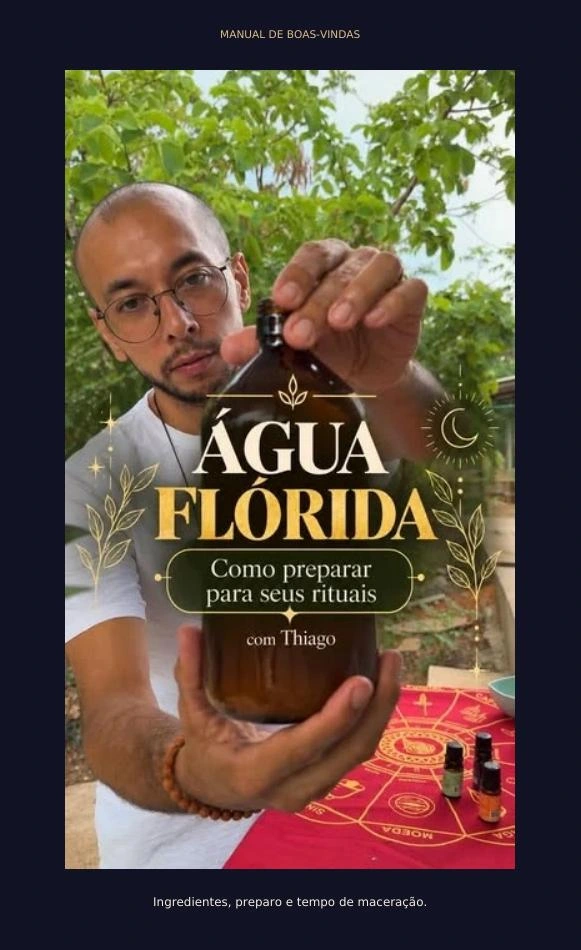
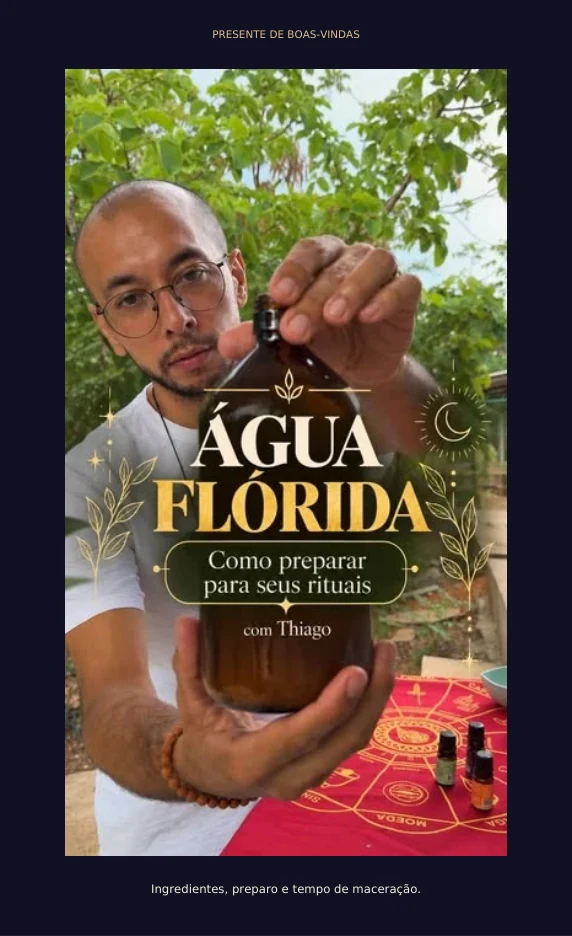
Revisa presente de boas-vindas, cuidados e crédito autoral

diff --git a/links/index.html b/links/index.html
@@ -1,1 +1,1 @@
-<!doctype html><html lang="pt-BR"><head><meta charset="utf-8"><meta name="viewport" content="width=device-width, initial-scale=1"><title>Links e boas-vindas | Thiago Sousa</title><meta name="description" content="Atendimentos, WhatsApp, Instagram, YouTube e um e-book gratuito de boas-vindas sobre Água Flórida."><meta name="theme-color" content="#121225"><link rel="canonical" href="https://thiagoterapiaseoraculos.github.io/meus-servicos/links/"><meta property="og:title" content="Thiago Sousa · Terapias & Oráculos"><meta property="og:description" content="Conheça meus atendimentos e receba um presente de boas-vindas."><meta property="og:image" content="https://thiagoterapiaseoraculos.github.io/meus-servicos/assets/images/perfil/thiago-site-compartilhamento.jpg"><meta property="og:url" content="https://thiagoterapiaseoraculos.github.io/meus-servicos/links/"><meta property="og:type" content="website"><link rel="icon" href="../assets/images/marca/estrela.svg"><link rel="stylesheet" href="links.css?v=20261026-fusao-thumb"></head><body><main class="page"><header class="hero"><img class="hero-photo" src="../assets/images/perfil/thiago-retrato-links.webp" alt="Retrato de Thiago Sousa, com camisa clara, em um ambiente com plantas e livros" width="640" height="641" fetchpriority="high"><div class="brand-art" aria-hidden="true"><img src="../assets/images/marca/thiago-terapias-topo.webp" alt="" width="1000" height="335"></div><div class="hero-tools"><a class="site-shortcut" href="../" aria-label="Acessar o site completo"><svg class="" viewBox="0 0 24 24" aria-hidden="true"><path d="M19 12H5m6-6-6 6 6 6"/></svg><span>Site</span></a><div class="theme-switch" role="radiogroup" aria-label="Aparência da página"><button type="button" role="radio" aria-checked="true" aria-label="Tema escuro" data-theme-choice="escuro"><svg class="" viewBox="0 0 24 24" aria-hidden="true"><path d="M20.5 13.5A8.5 8.5 0 0 1 10.5 3a8.5 8.5 0 1 0 10 10.5Z"/></svg></button><button type="button" role="radio" aria-checked="false" aria-label="Tema claro" data-theme-choice="claro" tabindex="-1"><svg class="" viewBox="0 0 24 24" aria-hidden="true"><circle cx="12" cy="12" r="4"/><path d="M12 2v2m0 16v2M2 12h2m16 0h2M5 5l1.4 1.4m11.2 11.2L19 19M5 19l1.4-1.4M17.6 6.4 19 5"/></svg></button></div></div><div class="hero-title"><p class="hello">Prazer, eu sou</p><h1>Thiago Sousa</h1><p class="profession">TERAPIAS & ORÁCULOS</p></div></header><div class="page-content"><p class="intro">Oráculos, orientação espiritual e práticas de autoconhecimento.<br>Um encontro com a sua própria essência.</p><a class="featured" href="../assets/downloads/agua-florida-boas-vindas.pdf?v=20261026-thumb3" download aria-label="Baixar meu presente: manual gratuito de Água Flórida"><div class="featured-copy"><p class="eyebrow">UM PRESENTE PARA VOCÊ</p><h2>Água Flórida</h2><p>Meu preparo, passo a passo. Ingredientes e medidas para acompanhar comigo.</p><span class="featured-action">Baixar meu presente <svg class="" viewBox="0 0 24 24" aria-hidden="true"><path d="M12 3v12m-5-5 5 5 5-5M4 17v4h16v-4"/></svg></span><small>PDF gratuito · 7 páginas</small></div><img src="../assets/images/conteudos/agua-florida-manual.webp" alt="Capa do manual Água Flórida: Como eu preparo para meus rituais" width="110" height="180" decoding="async"></a><section class="link-section" aria-labelledby="atendimento-title"><h2 class="section-label" id="atendimento-title">PARA CUIDAR DE VOCÊ</h2><a class="link-card" href="../#atendimentos"><svg class="card-icon" viewBox="0 0 24 24" aria-hidden="true"><rect x="2" y="3" width="20" height="15" rx="2"/><path d="M8 22h8m-4-4v4M2 7h20"/></svg><span><strong>Conheça meus atendimentos</strong><small>Propostas, modalidades e valores</small></span><svg class="arrow" viewBox="0 0 24 24" aria-hidden="true"><path d="M5 12h14m-6-6 6 6-6 6"/></svg></a><a class="link-card" href="https://wa.me/5561996540065?text=Ol%C3%A1%2C%20Thiago!%20Vim%20pela%20sua%20p%C3%A1gina%20de%20links%20e%20gostaria%20de%20conversar%20sobre%20um%20atendimento." target="_blank" rel="noopener noreferrer"><svg class="card-icon" viewBox="0 0 24 24" aria-hidden="true"><path d="M21 11.5a9 9 0 0 1-13.5 7.8L3 21l1.7-4.5A9 9 0 1 1 21 11.5Z"/><path d="M8.5 7.5c.5 4 3.2 6.7 7 7l1-2-2-1-1 1c-1.7-.7-2.6-1.6-3.3-3.3l1-1-1-2Z"/></svg><span><strong>Vamos conversar?</strong><small>Agendamento pelo WhatsApp</small></span><svg class="arrow" viewBox="0 0 24 24" aria-hidden="true"><path d="M5 12h14m-6-6 6 6-6 6"/></svg></a><p class="availability">Online e opções presenciais em Brasília, mediante agendamento.</p></section><section class="link-section" aria-labelledby="video-title"><h2 class="section-label" id="video-title">PARA ASSISTIR</h2><details id="video" class="video-card"><summary><img src="../assets/images/conteudos/agua-florida.webp" alt="Capa original do vídeo de Água Flórida" width="70" height="112" loading="lazy"><span><span class="eyebrow">ÁGUA FLÓRIDA</span><strong>Veja como eu preparo</strong><small>Assista ao vídeo completo</small></span><svg class="video-arrow" viewBox="0 0 24 24" aria-hidden="true"><path d="M5 12h14m-6-6 6 6-6 6"/></svg></summary><div class="video-content"><div id="player"></div><p class="notice">Conteúdo carregado do Instagram. Se não aparecer, abra a publicação pelo link abaixo.</p></div></details><a class="original-video" href="https://www.instagram.com/thiago.terapiaseoraculos/reel/Dez1kHcpO6o/" target="_blank" rel="noopener noreferrer">Abrir o vídeo no Instagram <svg class="arrow" viewBox="0 0 24 24" aria-hidden="true"><path d="M5 12h14m-6-6 6 6-6 6"/></svg></a></section><section class="link-section" aria-labelledby="social-title"><h2 class="section-label" id="social-title">PARA CONTINUAR POR PERTO</h2><a class="link-card" href="https://www.instagram.com/thiago.terapiaseoraculos/" target="_blank" rel="noopener noreferrer"><svg class="card-icon" viewBox="0 0 24 24" aria-hidden="true"><rect x="3" y="3" width="18" height="18" rx="5"/><circle cx="12" cy="12" r="4"/><path d="M17.5 6.5h.01"/></svg><span><strong>Meu Instagram</strong><small>@thiago.terapiaseoraculos</small></span><svg class="arrow" viewBox="0 0 24 24" aria-hidden="true"><path d="M5 12h14m-6-6 6 6-6 6"/></svg></a><a class="link-card" href="https://www.youtube.com/@thiagocaprino5149" target="_blank" rel="noopener noreferrer"><svg class="card-icon" viewBox="0 0 24 24" aria-hidden="true"><rect x="2" y="5" width="20" height="14" rx="4"/><path d="m10 9 5 3-5 3Z"/></svg><span><strong>Meu canal no YouTube</strong><small>Conversas para ver, ouvir e refletir</small></span><svg class="arrow" viewBox="0 0 24 24" aria-hidden="true"><path d="M5 12h14m-6-6 6 6-6 6"/></svg></a></section><aside class="support"><h2>Gostou de estar por aqui?</h2><p>Se este conteúdo fez sentido para você, siga minhas redes e compartilhe com alguém que também possa gostar. Seu apoio ajuda meu trabalho a chegar a mais pessoas.</p><button type="button" id="share">Compartilhar esta página <svg class="" viewBox="0 0 24 24" aria-hidden="true"><circle cx="18" cy="5" r="3"/><circle cx="6" cy="12" r="3"/><circle cx="18" cy="19" r="3"/><path d="m8.6 10.5 6.8-4m-6.8 7 6.8 4"/></svg></button><p role="status" id="status"></p></aside><footer><span class="footer-name">Thiago Sousa</span><span>TERAPIAS & ORÁCULOS</span><a href="../">Conheça o site completo <svg class="arrow" viewBox="0 0 24 24" aria-hidden="true"><path d="M5 12h14m-6-6 6 6-6 6"/></svg></a></footer></div></main><script src="links.js?v=20261026-fusao-thumb" defer></script></body></html>
+<!doctype html><html lang="pt-BR"><head><meta charset="utf-8"><meta name="viewport" content="width=device-width, initial-scale=1"><title>Links e boas-vindas | Thiago Sousa</title><meta name="description" content="Atendimentos, WhatsApp, Instagram, YouTube e um e-book gratuito de boas-vindas sobre Água Flórida."><meta name="theme-color" content="#121225"><link rel="canonical" href="https://thiagoterapiaseoraculos.github.io/meus-servicos/links/"><meta property="og:title" content="Thiago Sousa · Terapias & Oráculos"><meta property="og:description" content="Conheça meus atendimentos e receba um presente de boas-vindas."><meta property="og:image" content="https://thiagoterapiaseoraculos.github.io/meus-servicos/assets/images/perfil/thiago-site-compartilhamento.jpg"><meta property="og:url" content="https://thiagoterapiaseoraculos.github.io/meus-servicos/links/"><meta property="og:type" content="website"><link rel="icon" href="../assets/images/marca/estrela.svg"><link rel="stylesheet" href="links.css?v=20261026-fusao-thumb"></head><body><main class="page"><header class="hero"><img class="hero-photo" src="../assets/images/perfil/thiago-retrato-links.webp" alt="Retrato de Thiago Sousa, com camisa clara, em um ambiente com plantas e livros" width="640" height="641" fetchpriority="high"><div class="brand-art" aria-hidden="true"><img src="../assets/images/marca/thiago-terapias-topo.webp" alt="" width="1000" height="335"></div><div class="hero-tools"><a class="site-shortcut" href="../" aria-label="Acessar o site completo"><svg class="" viewBox="0 0 24 24" aria-hidden="true"><path d="M19 12H5m6-6-6 6 6 6"/></svg><span>Site</span></a><div class="theme-switch" role="radiogroup" aria-label="Aparência da página"><button type="button" role="radio" aria-checked="true" aria-label="Tema escuro" data-theme-choice="escuro"><svg class="" viewBox="0 0 24 24" aria-hidden="true"><path d="M20.5 13.5A8.5 8.5 0 0 1 10.5 3a8.5 8.5 0 1 0 10 10.5Z"/></svg></button><button type="button" role="radio" aria-checked="false" aria-label="Tema claro" data-theme-choice="claro" tabindex="-1"><svg class="" viewBox="0 0 24 24" aria-hidden="true"><circle cx="12" cy="12" r="4"/><path d="M12 2v2m0 16v2M2 12h2m16 0h2M5 5l1.4 1.4m11.2 11.2L19 19M5 19l1.4-1.4M17.6 6.4 19 5"/></svg></button></div></div><div class="hero-title"><p class="hello">Prazer, eu sou</p><h1>Thiago Sousa</h1><p class="profession">TERAPIAS & ORÁCULOS</p></div></header><div class="page-content"><p class="intro">Oráculos, orientação espiritual e práticas de autoconhecimento.<br>Um encontro com a sua própria essência.</p><a class="featured" href="../assets/downloads/agua-florida-boas-vindas.pdf?v=20261026-presente4" download aria-label="Baixar meu presente: e-book gratuito de Água Flórida"><div class="featured-copy"><p class="eyebrow">UM PRESENTE PARA VOCÊ</p><h2>Água Flórida</h2><p>Meu preparo, passo a passo. Ingredientes e medidas para acompanhar comigo.</p><span class="featured-action">Baixar meu presente <svg class="" viewBox="0 0 24 24" aria-hidden="true"><path d="M12 3v12m-5-5 5 5 5-5M4 17v4h16v-4"/></svg></span><small>PDF gratuito · 7 páginas</small></div><img src="../assets/images/conteudos/agua-florida-manual.webp?v=20261026-presente4" alt="Capa do presente de boas-vindas Água Flórida: Como preparar para seus rituais" width="110" height="180" decoding="async"></a><section class="link-section" aria-labelledby="atendimento-title"><h2 class="section-label" id="atendimento-title">PARA CUIDAR DE VOCÊ</h2><a class="link-card" href="../#atendimentos"><svg class="card-icon" viewBox="0 0 24 24" aria-hidden="true"><rect x="2" y="3" width="20" height="15" rx="2"/><path d="M8 22h8m-4-4v4M2 7h20"/></svg><span><strong>Conheça meus atendimentos</strong><small>Propostas, modalidades e valores</small></span><svg class="arrow" viewBox="0 0 24 24" aria-hidden="true"><path d="M5 12h14m-6-6 6 6-6 6"/></svg></a><a class="link-card" href="https://wa.me/5561996540065?text=Ol%C3%A1%2C%20Thiago!%20Vim%20pela%20sua%20p%C3%A1gina%20de%20links%20e%20gostaria%20de%20conversar%20sobre%20um%20atendimento." target="_blank" rel="noopener noreferrer"><svg class="card-icon" viewBox="0 0 24 24" aria-hidden="true"><path d="M21 11.5a9 9 0 0 1-13.5 7.8L3 21l1.7-4.5A9 9 0 1 1 21 11.5Z"/><path d="M8.5 7.5c.5 4 3.2 6.7 7 7l1-2-2-1-1 1c-1.7-.7-2.6-1.6-3.3-3.3l1-1-1-2Z"/></svg><span><strong>Vamos conversar?</strong><small>Agendamento pelo WhatsApp</small></span><svg class="arrow" viewBox="0 0 24 24" aria-hidden="true"><path d="M5 12h14m-6-6 6 6-6 6"/></svg></a><p class="availability">Online e opções presenciais em Brasília, mediante agendamento.</p></section><section class="link-section" aria-labelledby="video-title"><h2 class="section-label" id="video-title">PARA ASSISTIR</h2><details id="video" class="video-card"><summary><img src="../assets/images/conteudos/agua-florida.webp" alt="Capa original do vídeo de Água Flórida" width="70" height="112" loading="lazy"><span><span class="eyebrow">ÁGUA FLÓRIDA</span><strong>Veja como eu preparo</strong><small>Assista ao vídeo completo</small></span><svg class="video-arrow" viewBox="0 0 24 24" aria-hidden="true"><path d="M5 12h14m-6-6 6 6-6 6"/></svg></summary><div class="video-content"><div id="player"></div><p class="notice">Conteúdo carregado do Instagram. Se não aparecer, abra a publicação pelo link abaixo.</p></div></details><a class="original-video" href="https://www.instagram.com/thiago.terapiaseoraculos/reel/Dez1kHcpO6o/" target="_blank" rel="noopener noreferrer">Abrir o vídeo no Instagram <svg class="arrow" viewBox="0 0 24 24" aria-hidden="true"><path d="M5 12h14m-6-6 6 6-6 6"/></svg></a></section><section class="link-section" aria-labelledby="social-title"><h2 class="section-label" id="social-title">PARA CONTINUAR POR PERTO</h2><a class="link-card" href="https://www.instagram.com/thiago.terapiaseoraculos/" target="_blank" rel="noopener noreferrer"><svg class="card-icon" viewBox="0 0 24 24" aria-hidden="true"><rect x="3" y="3" width="18" height="18" rx="5"/><circle cx="12" cy="12" r="4"/><path d="M17.5 6.5h.01"/></svg><span><strong>Meu Instagram</strong><small>@thiago.terapiaseoraculos</small></span><svg class="arrow" viewBox="0 0 24 24" aria-hidden="true"><path d="M5 12h14m-6-6 6 6-6 6"/></svg></a><a class="link-card" href="https://www.youtube.com/@thiagocaprino5149" target="_blank" rel="noopener noreferrer"><svg class="card-icon" viewBox="0 0 24 24" aria-hidden="true"><rect x="2" y="5" width="20" height="14" rx="4"/><path d="m10 9 5 3-5 3Z"/></svg><span><strong>Meu canal no YouTube</strong><small>Conversas para ver, ouvir e refletir</small></span><svg class="arrow" viewBox="0 0 24 24" aria-hidden="true"><path d="M5 12h14m-6-6 6 6-6 6"/></svg></a></section><aside class="support"><h2>Gostou de estar por aqui?</h2><p>Se este conteúdo fez sentido para você, siga minhas redes e compartilhe com alguém que também possa gostar. Seu apoio ajuda meu trabalho a chegar a mais pessoas.</p><button type="button" id="share">Compartilhar esta página <svg class="" viewBox="0 0 24 24" aria-hidden="true"><circle cx="18" cy="5" r="3"/><circle cx="6" cy="12" r="3"/><circle cx="18" cy="19" r="3"/><path d="m8.6 10.5 6.8-4m-6.8 7 6.8 4"/></svg></button><p role="status" id="status"></p></aside><footer><span class="footer-name">Thiago Sousa</span><span>TERAPIAS & ORÁCULOS</span><a href="../">Conheça o site completo <svg class="arrow" viewBox="0 0 24 24" aria-hidden="true"><path d="M5 12h14m-6-6 6 6-6 6"/></svg></a></footer></div></main><script src="links.js?v=20261026-fusao-thumb" defer></script></body></html>

diff --git a/docs/ebook-agua-florida.md b/docs/ebook-agua-florida.md
@@ -18,3 +18,7 @@ A thumb original foi incorporada ao PDF e fotografias foram extraídas do vídeo
 ## Revisão visual: retrato e thumb original
 
 A página ganhou uma transição por máscaras CSS entre a parte superior da arte de identidade já existente e o retrato fornecido pelo usuário em image(4).png. A foto foi apenas convertida para WebP, sem alteração de rosto. No e-book, todos os frames de vídeo foram retirados; a capa original do vídeo é a única imagem, usada na capa e no cartão de acesso ao vídeo. O preparo foi reorganizado em duas páginas de instruções, preservando a primeira pessoa, as medidas e as seis etapas. O PDF passou de 8 para 7 páginas.
+
+## Presente de boas-vindas: revisão de texto
+
+A capa passou a usar “Presente de boas-vindas”. Avisos antes dispersos no preparo foram reunidos em “Antes de usar”, preservando os cuidados com álcool, pele, armazenamento e diferenças de concentração e medidas. As referências da Anvisa aparecem apenas na última página, sob “Referências quanto aos cuidados”. O crédito agora informa o conteúdo autoral de Thiago Sousa e o passo a passo conforme o vídeo publicado em suas redes, com a indicação “Publicado em outubro de 2026”. Foram retiradas as menções ao crédito da capa e à edição. A quantidade permanece em 7 páginas.
